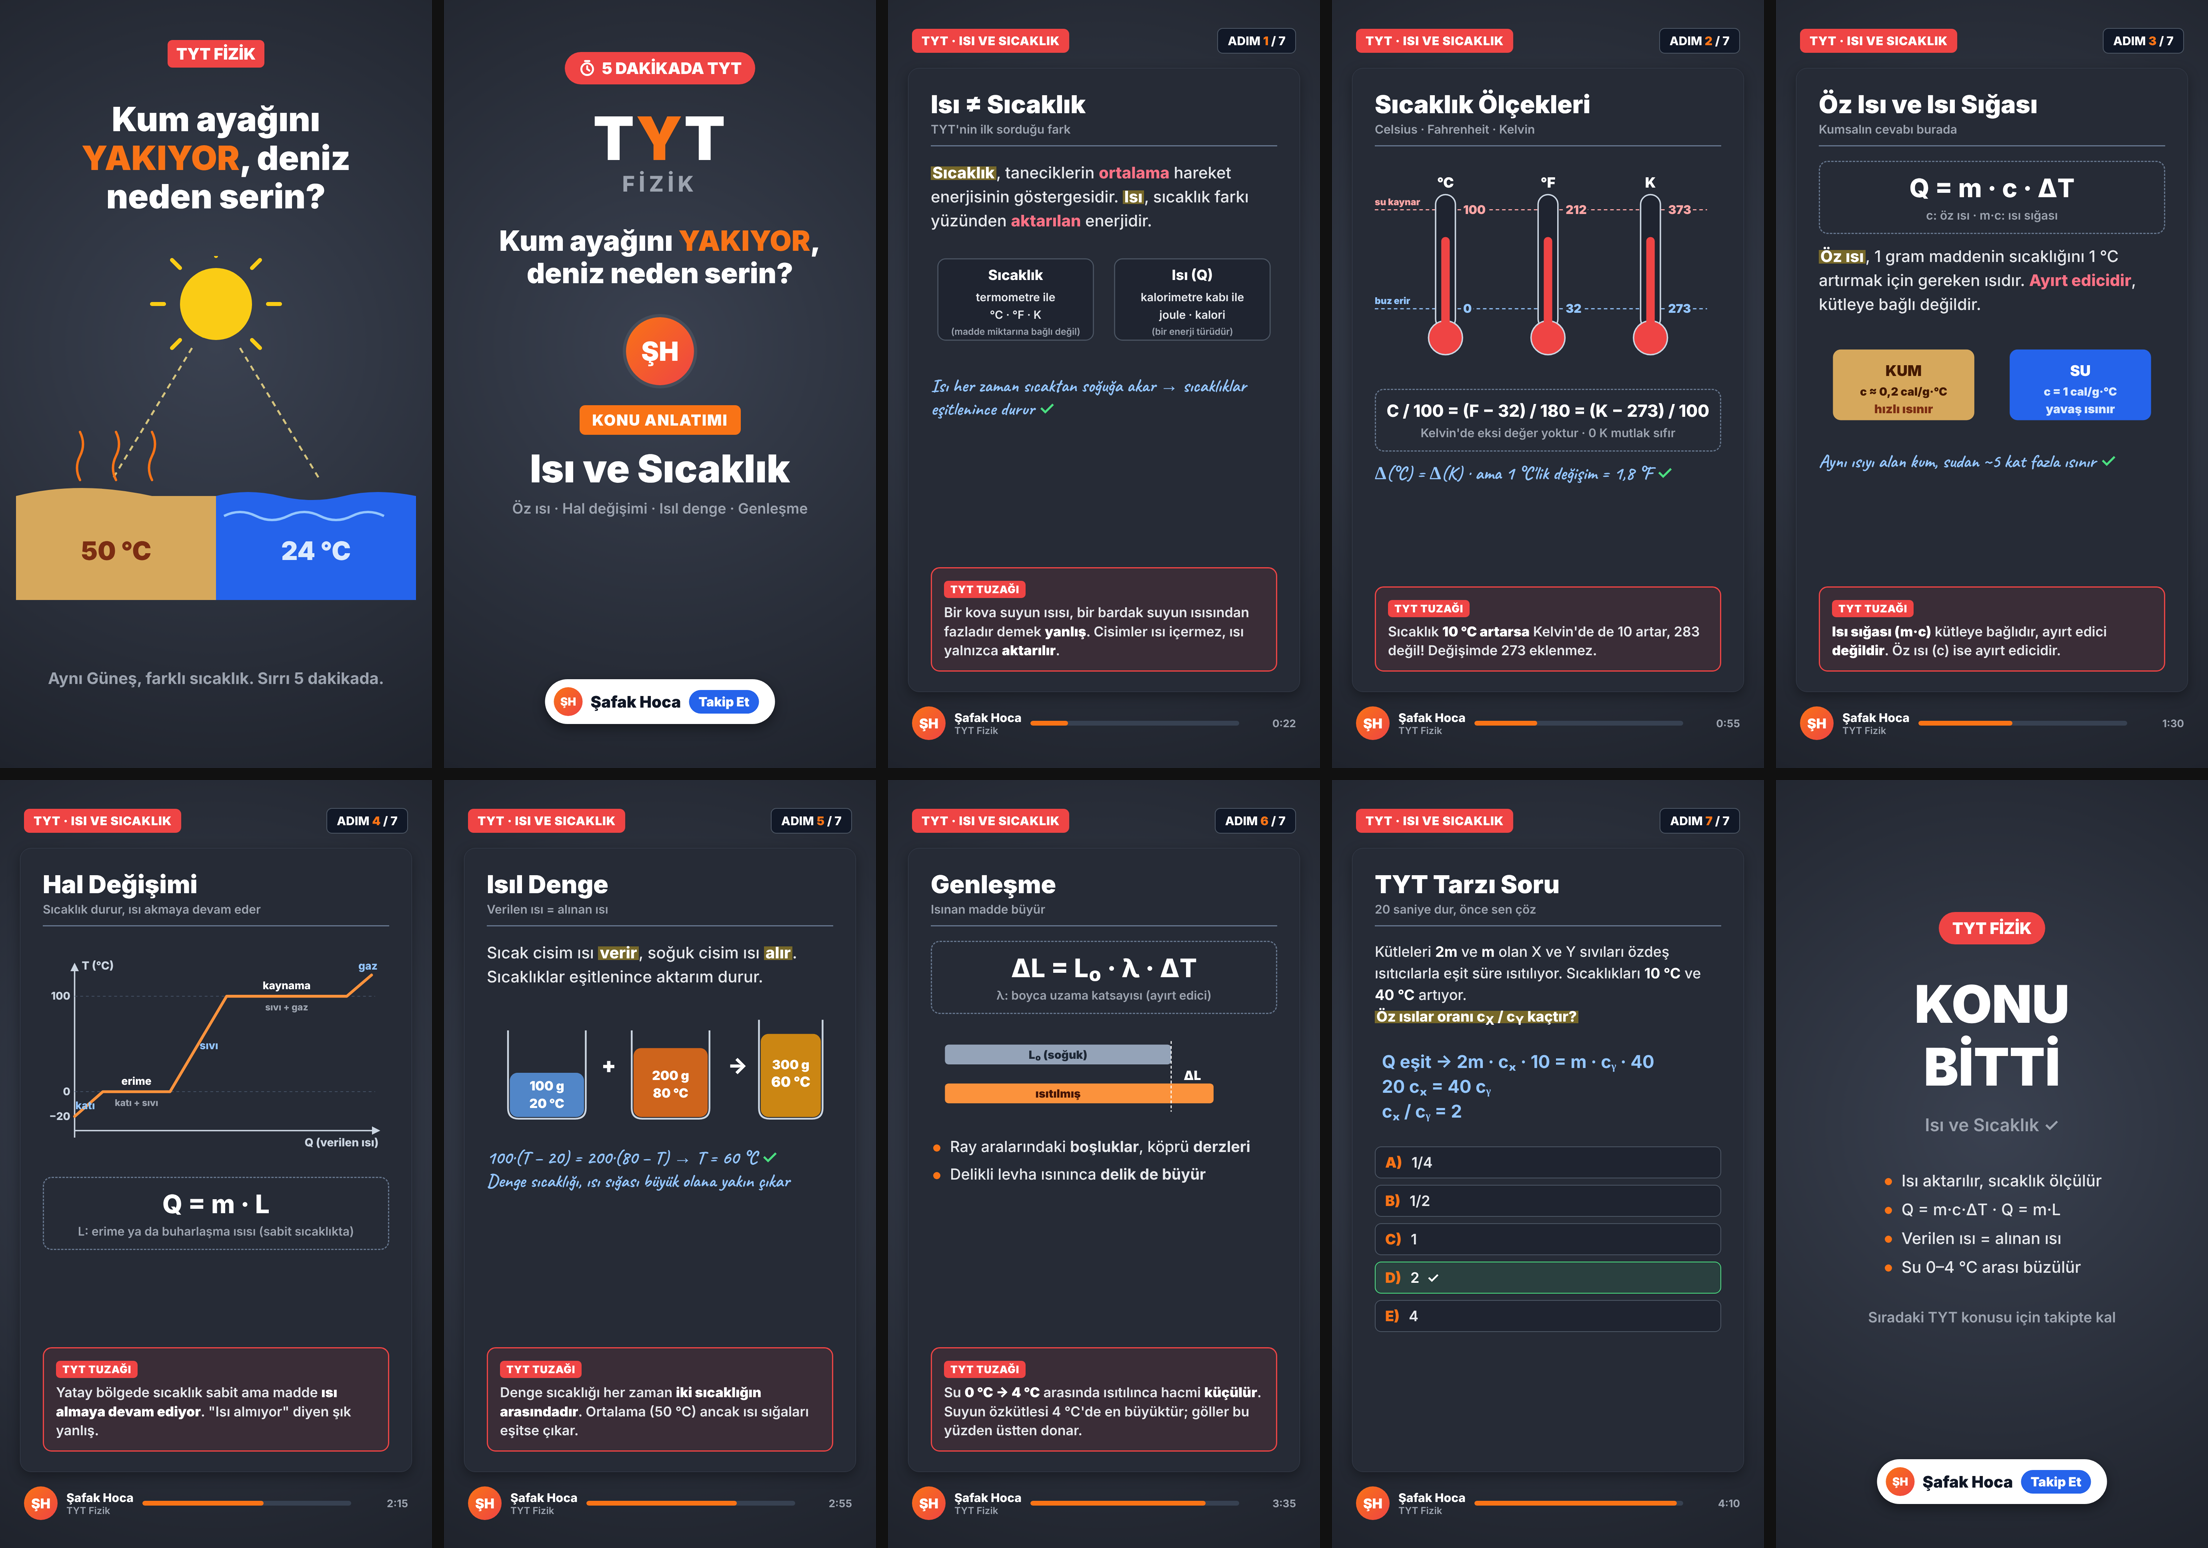
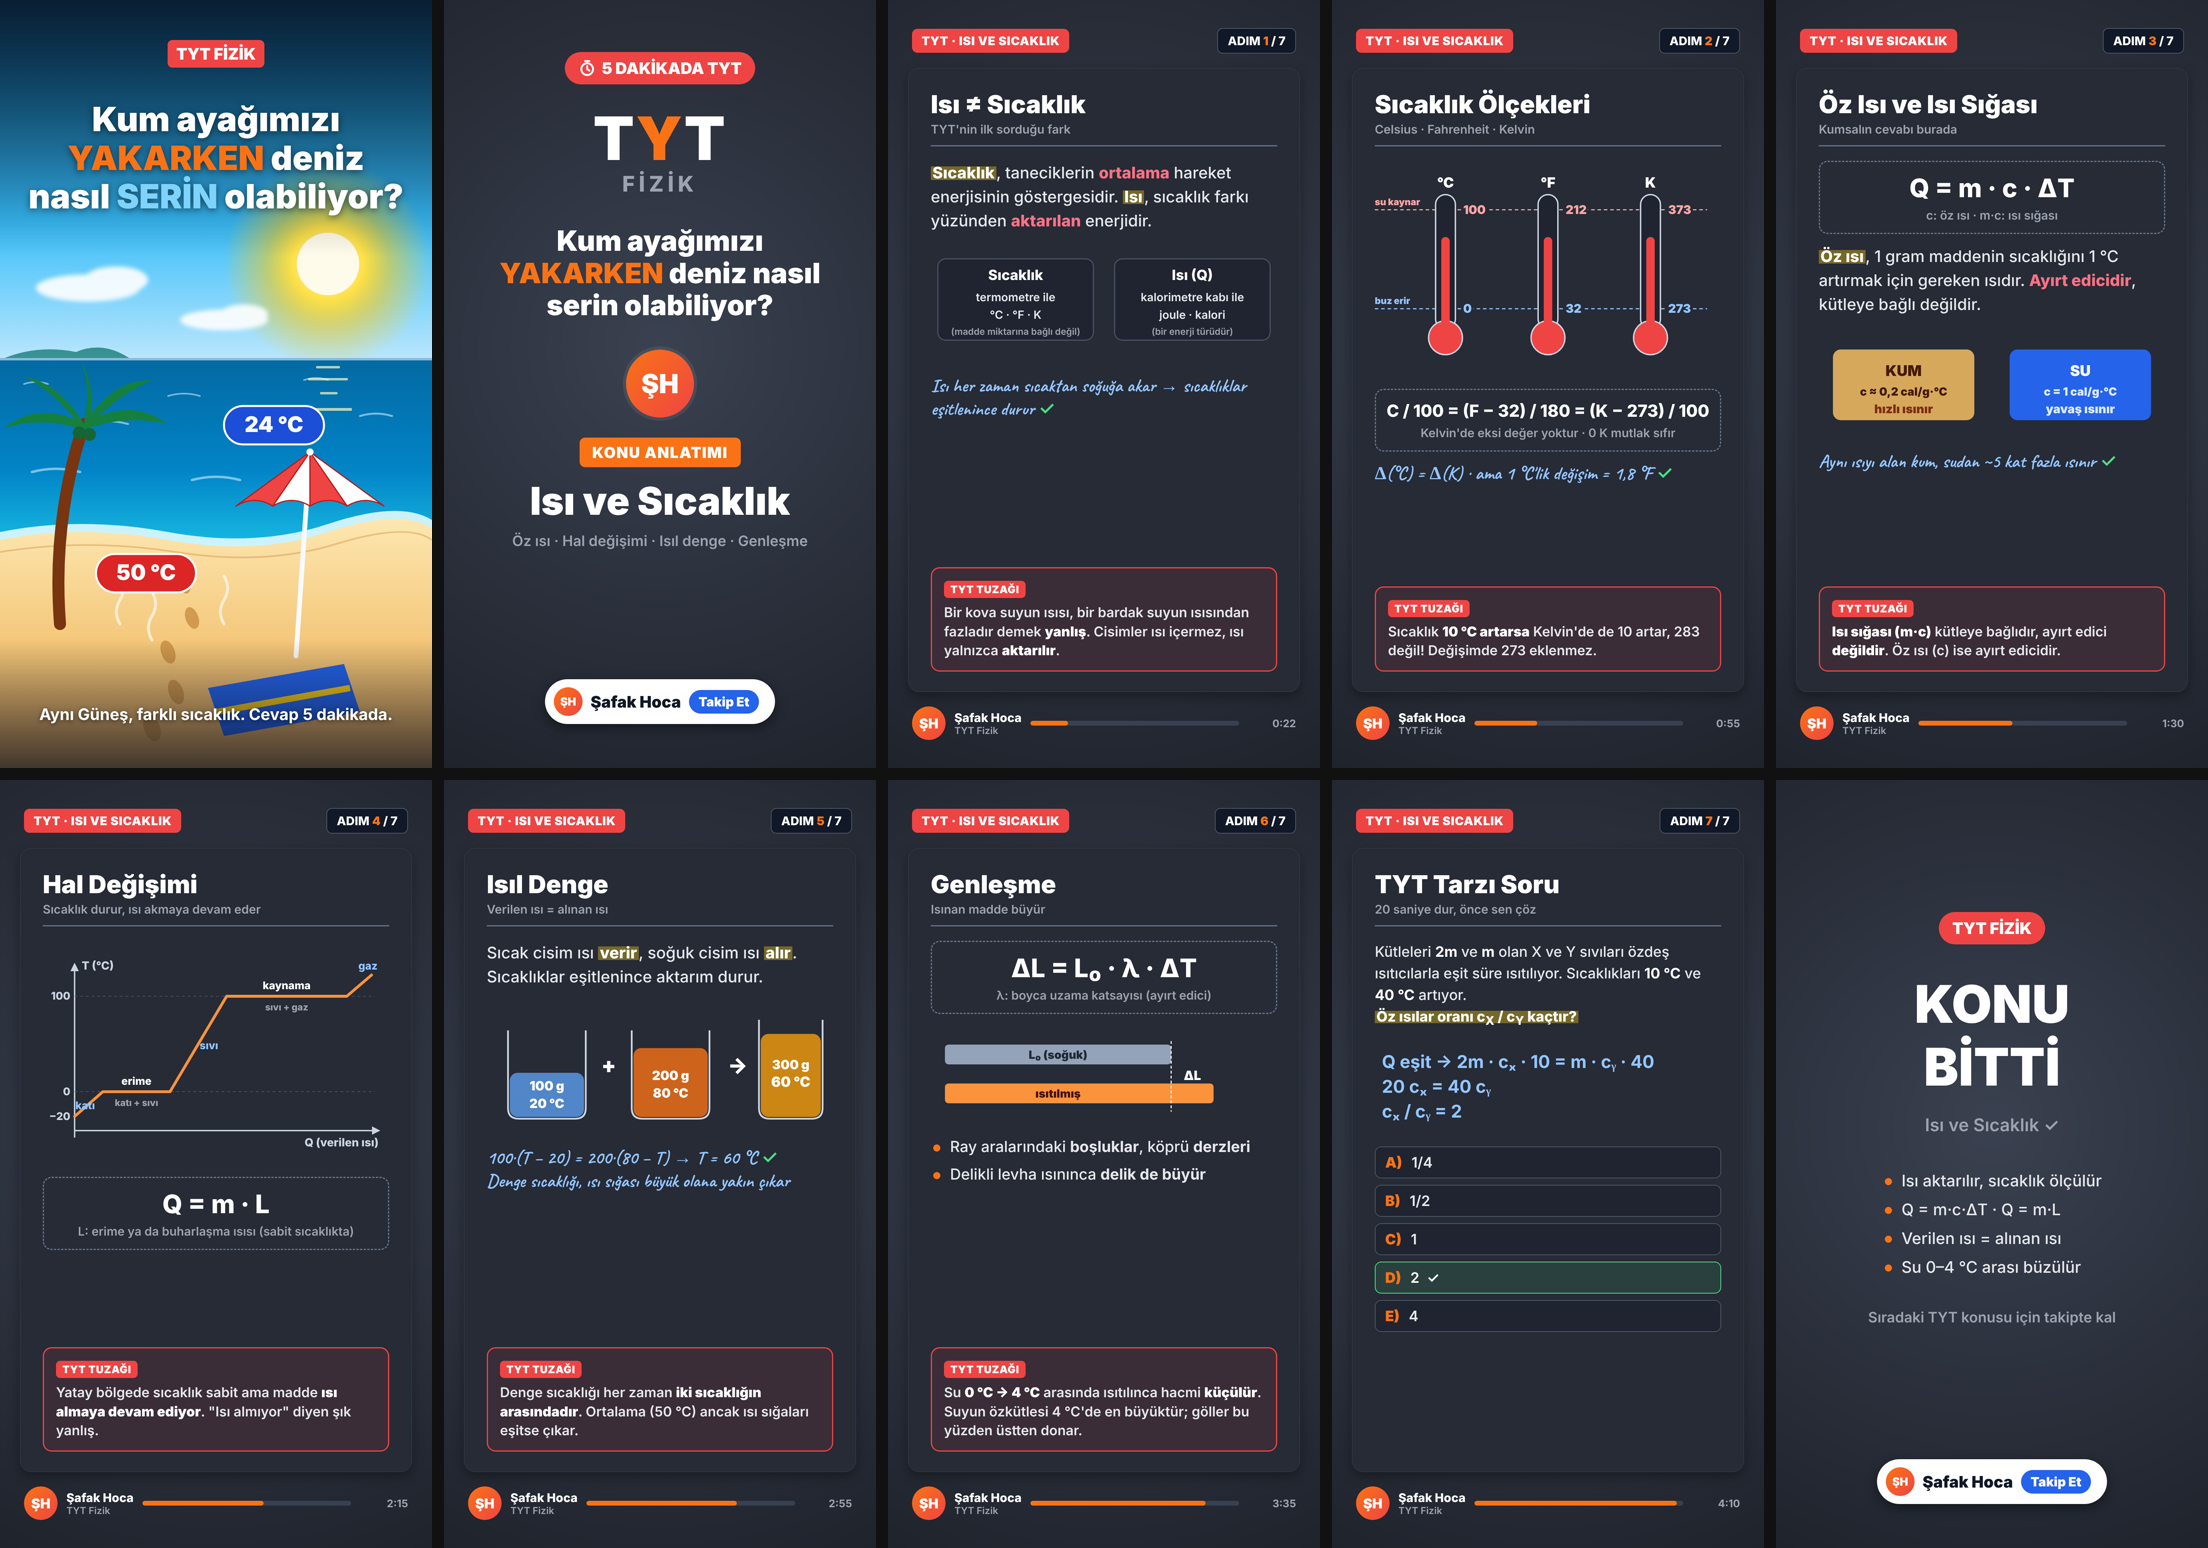
TYT Isı ve Sıcaklık: plaj sahneli yeni giriş
Claude-Session: https://claude.ai/code/session_01Xc7NeVxuRXWQCx2wXCgMJt

Changed region(s): [[0.0, 0.0, 0.375, 0.4961]]

diff --git a/tyt/konular/isi_sicaklik.html b/tyt/konular/isi_sicaklik.html
@@ -13,37 +13,106 @@
 </head>
 <body>
 
-<!-- ================= 1 · GİRİŞ (0:00–0:15) ================= -->
-<section class="sahne" id="giris">
-  <div class="hk-top"><span>TYT FİZİK</span></div>
-  <div class="hk-soru">Kum ayağını <em>YAKIYOR</em>, deniz neden serin?</div>
-  <svg viewBox="0 0 1080 900" width="1080" height="900" style="position:absolute;top:640px;left:0">
-    <!-- güneş -->
-    <circle cx="540" cy="120" r="90" fill="#facc15"/>
-    <g stroke="#facc15" stroke-width="10" stroke-linecap="round">
-      <line x1="540" y1="0" x2="540" y2="-10"/><line x1="410" y1="120" x2="380" y2="120"/><line x1="670" y1="120" x2="700" y2="120"/>
-      <line x1="450" y1="30" x2="430" y2="10"/><line x1="630" y1="30" x2="650" y2="10"/>
-      <line x1="450" y1="210" x2="430" y2="230"/><line x1="630" y1="210" x2="650" y2="230"/>
+<!-- ================= 1 · GİRİŞ (0:00–0:15) · plaj ================= -->
+<section class="sahne" id="giris" style="background:#0c4a6e">
+  <svg viewBox="0 0 1080 1920" width="1080" height="1920" style="position:absolute;inset:0">
+    <defs>
+      <linearGradient id="gok" x1="0" y1="0" x2="0" y2="1">
+        <stop offset="0" stop-color="#0369a1"/><stop offset=".55" stop-color="#38bdf8"/><stop offset="1" stop-color="#e0f2fe"/>
+      </linearGradient>
+      <radialGradient id="gunesP" cx=".5" cy=".5" r=".5">
+        <stop offset="0" stop-color="#fffbeb"/><stop offset=".35" stop-color="#fde047"/><stop offset=".6" stop-color="#facc15" stop-opacity=".55"/><stop offset="1" stop-color="#facc15" stop-opacity="0"/>
+      </radialGradient>
+      <linearGradient id="deniz" x1="0" y1="0" x2="0" y2="1">
+        <stop offset="0" stop-color="#0369a1"/><stop offset=".5" stop-color="#0284c7"/><stop offset="1" stop-color="#22d3ee"/>
+      </linearGradient>
+      <linearGradient id="kum" x1="0" y1="0" x2="0" y2="1">
+        <stop offset="0" stop-color="#fde7b0"/><stop offset=".5" stop-color="#f4c77a"/><stop offset="1" stop-color="#e0a458"/>
+      </linearGradient>
+      <linearGradient id="ust" x1="0" y1="0" x2="0" y2="1">
+        <stop offset="0" stop-color="#0b1220" stop-opacity=".85"/><stop offset=".6" stop-color="#0b1220" stop-opacity=".35"/><stop offset="1" stop-color="#0b1220" stop-opacity="0"/>
+      </linearGradient>
+      <linearGradient id="alt" x1="0" y1="0" x2="0" y2="1">
+        <stop offset="0" stop-color="#0b1220" stop-opacity="0"/><stop offset="1" stop-color="#0b1220" stop-opacity=".75"/>
+      </linearGradient>
+      <filter id="bulanik"><feGaussianBlur stdDeviation="6"/></filter>
+    </defs>
+    <!-- gökyüzü -->
+    <rect width="1080" height="1000" fill="url(#gok)"/>
+    <circle cx="820" cy="660" r="260" fill="url(#gunesP)"/>
+    <circle cx="820" cy="660" r="78" fill="#fffbeb"/>
+    <!-- bulutlar -->
+    <g fill="#fff" opacity=".9" filter="url(#bulanik)">
+      <ellipse cx="220" cy="720" rx="130" ry="34"/><ellipse cx="290" cy="700" rx="80" ry="34"/>
+      <ellipse cx="560" cy="800" rx="110" ry="26"/><ellipse cx="610" cy="785" rx="60" ry="24"/>
     </g>
-    <!-- ışınlar -->
-    <g stroke="#fde68a" stroke-width="5" stroke-dasharray="14 12" opacity=".8">
-      <line x1="480" y1="230" x2="280" y2="560"/><line x1="600" y1="230" x2="800" y2="560"/>
-    </g>
-    <!-- kum -->
-    <path d="M40 600 Q200 560 380 600 L540 600 L540 860 L40 860 Z" fill="#d6a85c"/>
+    <!-- uzak ada -->
+    <path d="M0 900 Q90 860 190 880 Q260 850 330 900 Z" fill="#0f766e" opacity=".75"/>
     <!-- deniz -->
-    <path d="M540 600 Q620 580 700 600 T860 600 T1040 600 L1040 860 L540 860 Z" fill="#2563eb"/>
-    <path d="M560 650 q40 -20 80 0 t80 0 t80 0 t80 0 t80 0" fill="none" stroke="#93c5fd" stroke-width="6"/>
-    <!-- termometre etiketleri -->
-    <g font-weight="900" font-size="64" text-anchor="middle">
-      <text x="290" y="760" fill="#7c2d12">50 °C</text>
-      <text x="790" y="760" fill="#dbeafe">24 °C</text>
+    <rect y="895" width="1080" height="560" fill="url(#deniz)"/>
+    <rect y="895" width="1080" height="6" fill="#e0f2fe" opacity=".6"/>
+    <g fill="none" stroke="#e0f2fe" stroke-linecap="round" opacity=".55">
+      <path d="M60 960 q30 -10 60 0" stroke-width="4"/><path d="M420 990 q40 -12 80 0" stroke-width="4"/>
+      <path d="M760 950 q30 -10 60 0" stroke-width="4"/><path d="M220 1060 q50 -14 100 0" stroke-width="5"/>
+      <path d="M640 1090 q50 -14 100 0" stroke-width="5"/><path d="M900 1040 q40 -12 80 0" stroke-width="5"/>
+      <path d="M80 1180 q60 -16 120 0" stroke-width="6"/><path d="M480 1200 q60 -16 120 0" stroke-width="6"/>
     </g>
-    <g fill="none" stroke="#f97316" stroke-width="6" stroke-linecap="round">
-      <path d="M200 560 q-15 -30 0 -60 q15 -30 0 -60"/><path d="M290 560 q-15 -30 0 -60 q15 -30 0 -60"/><path d="M380 560 q-15 -30 0 -60 q15 -30 0 -60"/>
+    <!-- güneş yansıması -->
+    <g fill="#fef9c3" opacity=".7">
+      <rect x="790" y="915" width="60" height="6" rx="3"/><rect x="770" y="945" width="100" height="6" rx="3"/>
+      <rect x="800" y="980" width="44" height="6" rx="3"/><rect x="760" y="1020" width="120" height="7" rx="3"/>
+    </g>
+    <!-- kıyı köpüğü + kum -->
+    <path d="M0 1330 Q200 1290 420 1330 T820 1310 T1080 1300 L1080 1920 L0 1920 Z" fill="#ecfeff" opacity=".85"/>
+    <path d="M0 1350 Q200 1310 420 1350 T820 1330 T1080 1320 L1080 1920 L0 1920 Z" fill="url(#kum)"/>
+    <path d="M0 1380 Q220 1345 440 1380 T840 1360 T1080 1350" fill="none" stroke="#b45309" stroke-width="4" opacity=".25"/>
+    <!-- palmiye -->
+    <path d="M150 1560 Q130 1300 210 1060" fill="none" stroke="#78350f" stroke-width="30" stroke-linecap="round"/>
+    <g fill="#15803d">
+      <path d="M210 1060 Q100 1000 10 1070 Q110 1040 210 1075 Z"/>
+      <path d="M210 1060 Q320 990 420 1060 Q310 1035 210 1075 Z"/>
+      <path d="M210 1060 Q150 960 60 940 Q150 990 205 1072 Z"/>
+      <path d="M210 1060 Q280 950 380 950 Q290 990 215 1072 Z"/>
+      <path d="M210 1060 Q230 960 200 900 Q245 970 220 1072 Z"/>
+    </g>
+    <g fill="#166534"><circle cx="198" cy="1082" r="16"/><circle cx="224" cy="1086" r="16"/></g>
+    <!-- şemsiye + havlu -->
+    <line x1="775" y1="1130" x2="740" y2="1640" stroke="#f8fafc" stroke-width="12" stroke-linecap="round"/>
+    <path d="M775 1130 L590 1265 Q636.0 1237 682 1265 Z" fill="#ef4444" stroke="#b91c1c" stroke-width="3" stroke-linejoin="round"/>
+    <path d="M775 1130 L682 1265 Q728.5 1237 775 1265 Z" fill="#fff" stroke="#b91c1c" stroke-width="3" stroke-linejoin="round"/>
+    <path d="M775 1130 L775 1265 Q821.5 1237 868 1265 Z" fill="#ef4444" stroke="#b91c1c" stroke-width="3" stroke-linejoin="round"/>
+    <path d="M775 1130 L868 1265 Q914.0 1237 960 1265 Z" fill="#fff" stroke="#b91c1c" stroke-width="3" stroke-linejoin="round"/>
+    <circle cx="775" cy="1130" r="9" fill="#f8fafc"/>
+    <path d="M520 1720 L860 1660 L900 1780 L560 1840 Z" fill="#2563eb"/>
+    <path d="M540 1780 L875 1720" stroke="#facc15" stroke-width="16"/>
+    <!-- ayak izleri -->
+    <g fill="#c58a3e" opacity=".75">
+      <ellipse cx="380" cy="1820" rx="20" ry="34" transform="rotate(-20 380 1820)"/>
+      <ellipse cx="440" cy="1730" rx="18" ry="32" transform="rotate(-20 440 1730)"/>
+      <ellipse cx="420" cy="1630" rx="17" ry="30" transform="rotate(-20 420 1630)"/>
+      <ellipse cx="480" cy="1545" rx="16" ry="28" transform="rotate(-20 480 1545)"/>
+      <ellipse cx="460" cy="1460" rx="14" ry="25" transform="rotate(-20 460 1460)"/>
+    </g>
+    <!-- sıcak hava dalgaları (kum) -->
+    <g fill="none" stroke="#fff7ed" stroke-width="7" stroke-linecap="round" opacity=".75">
+      <path d="M300 1560 q-18 -30 0 -60 q18 -30 0 -60"/>
+      <path d="M380 1600 q-18 -30 0 -60 q18 -30 0 -60"/>
+      <path d="M560 1560 q-18 -30 0 -60 q18 -30 0 -60"/>
+    </g>
+    <!-- okunurluk için koyu geçişler -->
+    <rect width="1080" height="640" fill="url(#ust)"/>
+    <rect y="1600" width="1080" height="320" fill="url(#alt)"/>
+    <!-- sıcaklık etiketleri -->
+    <g font-family="Inter" font-weight="900" text-anchor="middle">
+      <rect x="240" y="1385" width="250" height="96" rx="48" fill="#dc2626" stroke="#fff" stroke-width="5"/>
+      <text x="365" y="1450" fill="#fff" font-size="54">50 °C</text>
+      <rect x="560" y="1015" width="250" height="96" rx="48" fill="#1d4ed8" stroke="#fff" stroke-width="5"/>
+      <text x="685" y="1080" fill="#fff" font-size="54">24 °C</text>
     </g>
   </svg>
-  <div class="hk-alt">Aynı Güneş, farklı sıcaklık. Sırrı 5 dakikada.</div>
+  <div class="hk-top"><span>TYT FİZİK</span></div>
+  <div class="hk-soru" style="text-shadow:0 4px 18px rgba(0,0,0,.55)">Kum ayağımızı <em>YAKARKEN</em> deniz nasıl <em style="color:#7dd3fc">SERİN</em> olabiliyor?</div>
+  <div class="hk-alt" style="bottom:110px;color:#fff;text-shadow:0 3px 12px rgba(0,0,0,.6)">Aynı Güneş, farklı sıcaklık. Cevap 5 dakikada.</div>
 </section>
 
 <!-- ================= 2 · KAPAK (0:15–0:22) ================= -->
@@ -55,7 +124,7 @@
     </div>
     <div class="sinav">T<span>Y</span>T</div>
     <div class="ders">FİZİK</div>
-    <div class="soru">Kum ayağını <em>YAKIYOR</em>, deniz neden serin?</div>
+    <div class="soru">Kum ayağımızı <em>YAKARKEN</em> deniz nasıl serin olabiliyor?</div>
     <div class="logo">ŞH</div>
     <div class="ka">KONU ANLATIMI</div>
     <div class="konu">Isı ve Sıcaklık</div>

diff --git a/tyt/konular/isi_sicaklik.md b/tyt/konular/isi_sicaklik.md
@@ -7,7 +7,7 @@
 
 | # | Sahne | Zaman | Süre |
 |---|---|---|---|
-| 1 | Giriş: "Kum ayağını yakıyor, deniz neden serin?" | 0:00–0:15 | 15 sn |
+| 1 | Giriş (plaj): "Kum ayağımızı yakarken deniz nasıl serin olabiliyor?" | 0:00–0:15 | 15 sn |
 | 2 | Kapak + Takip Et | 0:15–0:22 | 7 sn |
 | 3 | Adım 1 · Isı ≠ sıcaklık | 0:22–0:55 | 33 sn |
 | 4 | Adım 2 · Sıcaklık ölçekleri | 0:55–1:30 | 35 sn |
@@ -23,7 +23,8 @@
 ## Seslendirme metni
 
 ### 1 · Giriş (0:00–0:15)
-Yazın kumsalda yürürken kum ayağını yakar ama denize girince serinlersin. İkisinin üstünde de aynı Güneş var. Peki kum elli derece olurken deniz neden yirmi dört derecede kalıyor? Cevabı bu videoda, üstelik TYT'nin en çok sorduğu yerden.
+*Ekran: tam ekran plaj; kumda "50 °C", denizde "24 °C" etiketi, kumun üstünde sıcak hava dalgaları.*
+Temmuz, öğle sıcağı. Havluya koşarken kum ayağını yakıyor, zıplaya zıplaya gidiyorsun. Ama birkaç adım ötede deniz serin. İkisinin üstünde de aynı Güneş var. Peki kum ayağımızı yakarken deniz nasıl serin olabiliyor? Cevap 5 dakikada.
 
 ### 2 · Kapak (0:15–0:22)
 Ben Şafak Hoca. 5 dakikada TYT'lik ısı ve sıcaklık. Takip etmeyi unutma, başlıyoruz.
